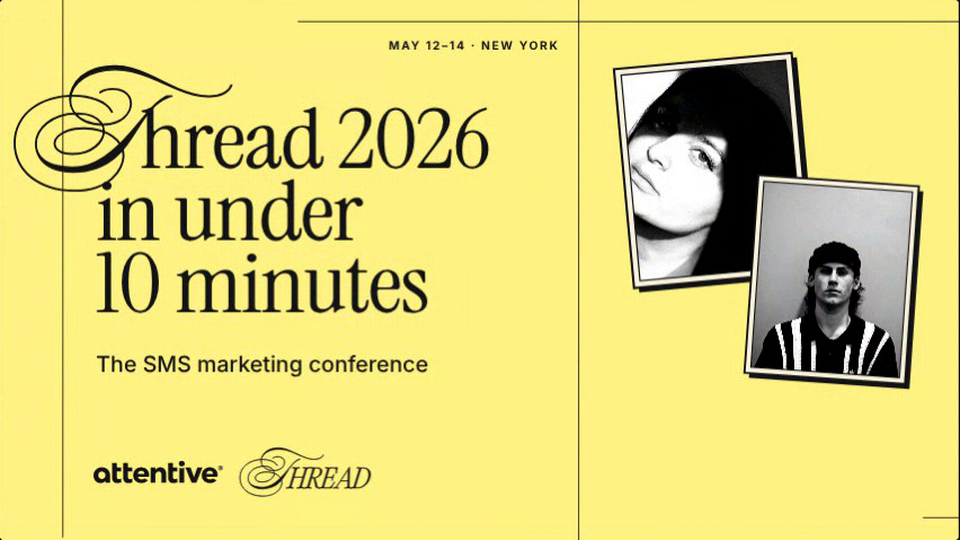
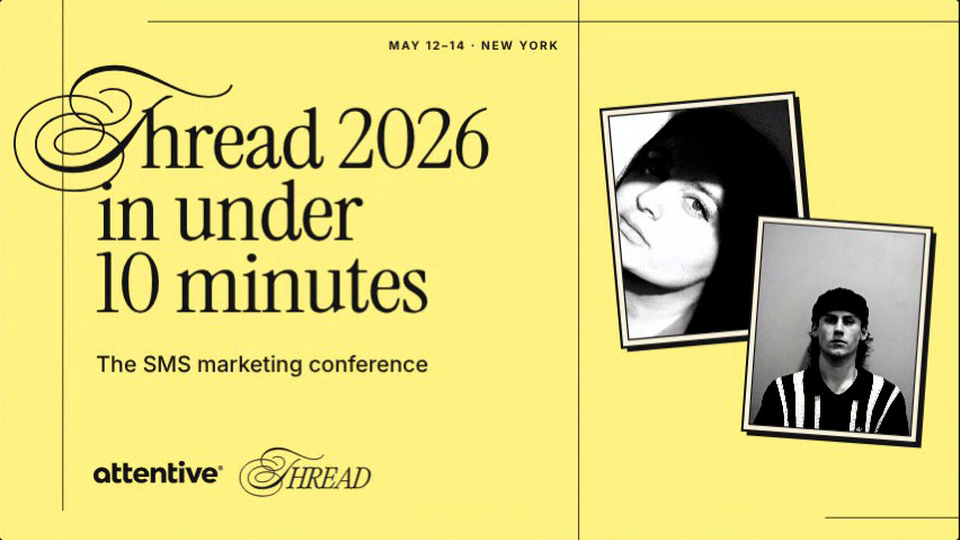
Conference Post Generator: speaker layout with session name leading, badges 1/3/5, alignment and spacing tweaks across templates
Claude-Session: https://claude.ai/code/session_01AHeBdzDs1sAKkVKYb3xsdt

diff --git a/conference-post-generator/index.html b/conference-post-generator/index.html
@@ -132,7 +132,7 @@ input[type=text]:focus,textarea:focus,select:focus{outline:2px solid var(--yello
       </div>
       <label class="f"><span>Badge name (one line, Title Case)</span><input type="text" id="badgeText"></label>
       <label class="chk" data-for="speaker"><input type="checkbox" id="showBadge"> Show the badge</label>
-      <div class="rng" data-for="badges"><span>Badges shown</span><input type="range" id="badgeCount" min="3" max="5" step="1"><output id="badgeCountO"></output></div>
+      <div class="rng" data-for="badges"><span>Badges shown</span><input type="range" id="badgeCount" min="1" max="5" step="2"><output id="badgeCountO"></output></div>
     </section>
 
     <section data-for="headline">
@@ -205,9 +205,9 @@ const SHAPE_RATIO = { arch: 0.76, circle: 1, scallop: 1, hexagon: 1.1, shield: 0
 
 const S = {
   tpl: 'headline', fmt: 'landscape', theme: 'yellow', seed: 7,
-  headline: 'Thread 2026\nin under\n10 minutes', sub: 'The SMS marketing conference', bHeadline: 'Tickets\non sale\nnow', bSub: 'Pick your pass for Thread 2026', date: 'May 12–14 · New York',
+  headline: 'Thread 2026\nin under\n10 minutes', sub: 'The SMS marketing conference', bHeadline: 'Tickets\non sale now', bSub: 'Pick your pass for Thread 2026', date: 'May 12–14 · New York',
   chip: 'Keynote', speaker: 'Maya Chen', role: 'VP of Growth, Brand Co.', talk: 'What texting taught us about talking to customers',
-  swashT: true, badgeShape: 'arch', badgeText: SHAPE_DEFAULTS.arch, showBadge: true, badgeCount: 4,
+  swashT: true, badgeShape: 'arch', badgeText: SHAPE_DEFAULTS.arch, showBadge: true, badgeCount: 3,
   panelMode: 'photos', barOn: true, callig: false, photoFilter: 'color', photoCount: 2, weight: 5, lines: true, anim: true,
 };
 
@@ -413,12 +413,12 @@ function photoCluster(ctx, c, r, n, t, stack) {
   if (stack) {  // wide, short bar: prints stand taller than the bar and poke out over its top edge
     const sw2 = (k) => 0.012 * Math.sin(TAU * t / PERIOD + k * 1.7);
     const spec = [[0.95, 0.38, 0.07], [0.68, 0.52, -0.05], [0.6, 0.62, 0.04]], items = []; let left = 0;  // lead print bleeds a sliver off the top and right, the rest step back left and overlap
-    for (let k = 0; k < n; k++) { const ph = r.h * spec[k][0], pw = ph * 0.8, cx = k ? left - pw / 2 + pw * 0.28 : r.x + r.w - pw / 2 + pw * 0.07; left = cx - pw / 2; items.push([n - 1 - k, cx, r.y + r.h * spec[k][1], pw, ph, spec[k][2]]); }
+    for (let k = 0; k < n; k++) { const ph = r.h * spec[k][0], pw = ph * 0.8, cx = k ? left - pw / 2 + pw * 0.28 : r.x + r.w * 0.87 - pw / 2; left = cx - pw / 2; items.push([n - 1 - k, cx, r.y + r.h * spec[k][1], pw, ph, spec[k][2]]); }
     items.reverse().forEach((q, i) => photoFrame(ctx, q[0], q[1], q[2], q[3], q[4], q[5] + sw2(i), c.th, c.fu * 10));
     return;
   }
   const sw = (k) => 0.012 * Math.sin(TAU * t / PERIOD + k * 1.7), base = Math.min(r.w * 0.8, r.h * 0.78);
-  const L = { 1: [[0.5, 0.5, 1.0, -0.06]], 2: [[0.34, 0.4, 0.82, -0.1], [0.68, 0.62, 0.74, 0.08]], 3: [[0.3, 0.34, 0.74, -0.09], [0.7, 0.4, 0.7, 0.07], [0.46, 0.76, 0.66, -0.03]] }[n];
+  const L = { 1: [[0.5, 0.5, 1.0, -0.06]], 2: [[0.34, 0.4, 0.82, -0.1], [0.68, 0.62, 0.74, 0.08]], 3: [[0.3, 0.3, 0.74, -0.09], [0.7, 0.36, 0.7, 0.07], [0.46, 0.72, 0.66, -0.03]] }[n];
   if (!L) return;
   L.forEach((p, k) => { const pw = base * p[2] * 0.72, ph = pw * 1.25; photoFrame(ctx, k, r.x + r.w * p[0], r.y + r.h * p[1], pw, ph, p[3] + sw(k), c.th, c.fu * 10); });
 }
@@ -479,7 +479,7 @@ function drawBadge(ctx, th, shape, cx, cy, h, rot, label, shadow) {
   let fs = fs0; ctx.font = serifFont(fs, false); setLS(ctx, 0);
   const maxW = w * (shape === 'shield' ? 0.58 : shape === 'circle' || shape === 'scallop' ? 0.66 : 0.78);
   lines.forEach((l) => { const mw = ctx.measureText(l).width; if (mw > maxW) fs = Math.min(fs, fs0 * maxW / mw); });
-  const gap = fs * 1.0, top = dv + (y + h - dv) * (shape === 'shield' ? 0.4 : 0.5) - ((lines.length - 1) * gap) / 2;
+  const gap = fs * 1.0, top = dv + (y + h - dv) * (shape === 'shield' ? 0.3 : 0.36) - ((lines.length - 1) * gap) / 2;
   lines.forEach((l, i) => serifText(ctx, l, 0, top + i * gap + fs * 0.34, fs, ink, { align: 'center' }));
   ctx.restore();
 }
@@ -512,10 +512,10 @@ function panelRect(c, pos) {
   if (c.land) return { x: W * 0.604, y: 45 * fu, w: W - W * 0.604, h: H - 92 * fu };
   return pos === 'top' ? { x: 0, y: 45 * fu, w: W, h: H * 0.46 } : { x: 0, y: H * 0.6, w: W, h: H - 215 * fu - H * 0.6 };
 }
-function drawPanel(ctx, c, r, seed, plain) {
+function drawPanel(ctx, c, r, seed, plain, side) {
   ctx.save(); ctx.fillStyle = c.th.accent; ctx.fillRect(r.x, r.y, r.w, r.h);
   ctx.beginPath(); ctx.rect(r.x, r.y, r.w, r.h); ctx.clip();
-  if (!plain) flourish(ctx, r.x, r.y, r.w, r.h, { color: DARK, t: c.t, still: c.still, fw: 1.2 * S.weight / 5 * c.fu, off: seed * 0.9 });
+  if (!plain) flourish(ctx, r.x, r.y, r.w, r.h, { color: DARK, t: c.t, still: c.still, fw: 1.2 * S.weight / 5 * c.fu, off: seed * 0.9, side });
   ctx.restore();
 }
 function subLines(ctx, c, x, y, text) {
@@ -524,8 +524,8 @@ function subLines(ctx, c, x, y, text) {
   return yy;
 }
 function footerDate(ctx, c, rightX) {
-  // 16:9: the footer row is cramped beside the logos, so the date goes at the top of the text column; stacked formats keep it bottom right
-  if (S.date) sansText(ctx, dateTxt(), c.land ? rightX + 20 * c.fu : rightX, c.land ? 45 * c.fu + 58 * c.fu : c.H - 142 * c.fu + 9 * c.fu, 24 * c.fu, c.th.fg, { wt: 700, ls: 4 * c.fu, align: 'right' });
+  // the date sits at the top right of the text column (16:9) or of the post (stacked formats)
+  if (S.date) sansText(ctx, dateTxt(), c.land ? rightX + 20 * c.fu : c.W * 0.945, 45 * c.fu + 58 * c.fu, 24 * c.fu, c.th.fg, { wt: 700, ls: 4 * c.fu, align: 'right' });
 }
 const dateTxt = () => (S.date || '').toUpperCase();
 const sway = (t, ph) => Math.sin(TAU * t / PERIOD + ph);
@@ -540,7 +540,7 @@ function headlineBlock(ctx, c, box, o) {
   let fs = o.maxFs;
   for (; fs > 24; fs *= 0.97) {
     const mx = Math.max(mxMin, extra * fs + 0.015 * W), right = Math.max(...w100.map((w, i) => (i === 0 && sw ? 0.53 : 0) + w)) * fs + mx;
-    if (right <= box.x + box.w && stackAt(fs) <= box.h) break;
+    if (right <= box.x + box.w && stackAt(fs) <= box.h && (!o.lockMx || extra * fs + 0.015 * W <= mxMin + 0.5)) break;
   }
   const LH = 0.88, mx = Math.max(mxMin, extra * fs + 0.015 * W), top = box.y + (box.h - stackAt(fs)) / 2 + (sw ? 0.54 * fs : 0), b1 = top + 0.7 * fs, fl = (i) => 2 * fu * sway(t, i * 0.8 + 0);
   if (sw) drawSwash(ctx, mx + 0.53 * fs - 1.52 * fs, b1 - 1.24 * fs + fl(0), fs * 0.285 / 172, th.fg, 0.012 * sway(t, 0));
@@ -559,71 +559,71 @@ function tHeadline(ctx, c) {
   }
   const n = S.photoCount;
   if (S.panelMode === 'badges') barBadges(ctx, c, pr, t);
-  else if (n) photoCluster(ctx, c, land ? { x: pr.x + pr.w * 0.04, y: pr.y - pr.h * 0.1, w: pr.w * 0.92, h: pr.h } : pr, n, t, !land);
+  else if (n) photoCluster(ctx, c, pr, n, t, !land);
   frameLines(ctx, c, land ? pr.x : null);
   if (!land && S.lines && S.barOn) { ctx.save(); ctx.strokeStyle = th.fg; ctx.lineWidth = Math.max(1.5, 2 * fu); ctx.beginPath(); ctx.moveTo(0, pr.y); ctx.lineTo(W, pr.y); ctx.stroke(); ctx.restore(); }
   const box = land ? { x: 0, y: 100 * fu, w: pr.x - 60 * fu, h: H - 350 * fu } : { x: 0, y: 110 * fu, w: W - 0.06 * W, h: pr.y - 300 * fu };
-  const hb = headlineBlock(ctx, c, box, { maxFs: 172 * fu * (land ? 1 : 2) });
+  const hb = headlineBlock(ctx, c, box, land ? { maxFs: 172 * fu } : { maxFs: 172 * fu * 2, mx: 0.154 * W, lockMx: true });  // stacked: text starts on the 15.4% line
   subLines(ctx, c, hb.mx, hb.bottom + 88 * fu);
-  footer(ctx, c); footerDate(ctx, c, land ? pr.x - 60 * fu : W - 0.0985 * W);
+  footer(ctx, c); footerDate(ctx, c, pr.x - 60 * fu);
 }
 
+function wrapSlide(ctx, str, fs, maxW) {
+  const out = []; let cur = '';
+  for (const w of str.trim().split(/\s+/)) { const tt = cur ? cur + ' ' + w : w; if (cur && measureSlide(ctx, tt, fs, false) > maxW) { out.push(cur); cur = w; } else cur = tt; }
+  if (cur) out.push(cur); return out;
+}
 function tSpeaker(ctx, c) {
   const { W, H, fu, th, t, land } = c, pr = panelRect(c, 'top');
-  drawPanel(ctx, c, pr, S.seed + 3);
-  const ph = pr.h * (land ? 0.56 : 0.74), pw = ph * 0.8;  // smaller on 16:9 (LinkedIn) so the print sits well inside the panel
-  photoFrame(ctx, 0, pr.x + pr.w / 2, pr.y + pr.h / 2 + 4 * sway(t, 0.4), pw, ph, -0.05 + 0.012 * sway(t, 0.2), th, 12 * fu);
-  if (S.showBadge) { const bh = land ? H * 0.3 : pr.h * 0.44, bw = bh * SHAPE_RATIO[S.badgeShape]; drawBadge(ctx, th, S.badgeShape, Math.min(pr.x + pr.w / 2 + pw * 0.62, W - bw / 2 - 36 * fu), pr.y + pr.h * (land ? 0.8 : 0.86) + 5 * sway(t, 1.2), bh, 0.1 + 0.015 * sway(t, 0.9), S.badgeText, 10 * fu); }
+  drawPanel(ctx, c, pr, S.seed + 3, false, 'R');  // loops on the right side only
+  const ph = pr.h * (land ? 0.56 : 0.74), pw = ph * 0.8, dx = land ? 0 : -0.045 * W, dy = land ? 0 : 0.07 * pr.h;  // stacked: print and badge sit lower and a little left
+  photoFrame(ctx, 0, pr.x + pr.w / 2 + dx, pr.y + pr.h / 2 + dy + 4 * sway(t, 0.4), pw, ph, -0.05 + 0.012 * sway(t, 0.2), th, 12 * fu);
+  if (S.showBadge) { const bh = land ? H * 0.3 : pr.h * 0.44, bw = bh * SHAPE_RATIO[S.badgeShape]; drawBadge(ctx, th, S.badgeShape, Math.min(pr.x + pr.w / 2 + pw * 0.62 + dx, W - bw / 2 - 36 * fu), pr.y + pr.h * (land ? 0.8 : 0.86) + dy + 5 * sway(t, 1.2), bh, 0.1 + 0.015 * sway(t, 0.9), S.badgeText, 10 * fu); }
   frameLines(ctx, c, land ? pr.x : null);
-  const mx = 0.0985 * W, rightB = land ? pr.x - 60 * fu : W - mx, topY = land ? 100 * fu : pr.y + pr.h + 60 * fu, botY = H - 250 * fu;
-  // tag = the outlined REGISTER NOW button from the site: sharp corners, hairline stroke, tracked bold capitals
-  const tagFs = 22 * fu, tagSp = 4 * fu, tagH = 58 * fu, tagPad = 30 * fu, tagFont = 'bold ' + tagFs + 'px Helvetica, Arial, sans-serif';
+  const mx = 0.0985 * W, rightB = land ? pr.x - 60 * fu : W - mx, k = land ? 1 : 1.5;
+  // tag = the outlined REGISTER NOW button: sharp corners, hairline stroke, tracked bold capitals (bigger on stacked formats)
+  const tagFs = 22 * fu * k, tagSp = 4 * fu * k, tagH = 58 * fu * k, tagPad = 30 * fu * k, tagFont = 'bold ' + tagFs + 'px Helvetica, Arial, sans-serif';
   ctx.save(); ctx.font = tagFont; setLS(ctx, tagSp);
   const tag = (S.chip || '').toUpperCase(), tw = ctx.measureText(tag).width - tagSp + 2 * tagPad; ctx.restore();
-  const nameLines = [S.speaker.trim() || ' '];  // the name always sits on one line
-  const w100 = nameLines.map((s) => measureSlide(ctx, s, 100, false) / 100);
-  ctx.save(); ctx.font = serifFont(60 * fu, true);
-  const talk = (S.talk ? wrapText(ctx, S.talk, rightB - mx) : []).slice(0, 3); ctx.restore();
-  const extraH = (S.chip ? 100 * fu : 0) + (S.role ? 150 * fu : 0) + talk.length * 62 * fu + 40 * fu;
-  let fs = 300 * fu * (land ? 0.8 : 1);
-  for (; fs > 30; fs *= 0.97) { if (Math.max(...w100) * fs + mx <= rightB && (nameLines.length - 1) * fs + 0.7 * fs + extraH <= botY - topY) break; }
-  const stack = (nameLines.length - 1) * fs + 0.7 * fs + extraH;
-  let y = topY + Math.max(0, (botY - topY - stack) / 2);
+  const title = (S.talk || S.speaker || ' ').trim(), nameFs = 64 * fu * (land ? 1 : 1.15), roleFs = 36 * fu * (land ? 1 : 1.15);
+  const topY = land ? 100 * fu : pr.y + pr.h * 1.18, botY = land ? H - 250 * fu : H - 240 * fu;  // the group sits just above the logos on stacked formats
+  const groupH = (fs, n) => (S.chip ? tagH + 44 * fu * k : 0) + 0.72 * fs + (n - 1) * 0.92 * fs + 0.28 * fs + 48 * fu + (S.speaker ? nameFs : 0) + (S.role ? 30 * fu + roleFs : 0);
+  let fs = (land ? 150 : 190) * fu, lines = wrapSlide(ctx, title, fs, rightB - mx);
+  for (; fs > 30; fs *= 0.97) { lines = wrapSlide(ctx, title, fs, rightB - mx); if (lines.length <= 3 && groupH(fs, lines.length) <= botY - topY) break; }
+  const G = groupH(fs, lines.length);
+  let y = land ? topY + Math.max(0, (botY - topY - G) / 2) : botY - G;
   if (S.chip) {
     ctx.save(); ctx.strokeStyle = th.fg; ctx.lineWidth = Math.max(1.5, 2 * fu); ctx.lineJoin = 'miter'; ctx.strokeRect(mx + 1, y + 1, tw - 2, tagH - 2);
-    ctx.fillStyle = th.fg; ctx.font = tagFont; ctx.textAlign = 'left'; ctx.textBaseline = 'alphabetic'; setLS(ctx, tagSp); ctx.fillText(tag, mx + tagPad, y + tagH / 2 + tagFs * 0.375); ctx.restore();
-    if (S.date) { ctx.save(); ctx.fillStyle = th.fg; ctx.font = tagFont; ctx.textAlign = 'left'; ctx.textBaseline = 'alphabetic'; setLS(ctx, tagSp); ctx.fillText(dateTxt(), mx + tw + 30 * fu, y + tagH / 2 + tagFs * 0.375); ctx.restore(); }  // same type as the tag
-    y += 100 * fu;
+    ctx.fillStyle = th.fg; ctx.font = tagFont; ctx.textAlign = 'left'; ctx.textBaseline = 'alphabetic'; setLS(ctx, tagSp); ctx.fillText(tag, mx + tagPad, y + tagH / 2 + tagFs * 0.375);
+    if (S.date) ctx.fillText(dateTxt(), mx + tw + 30 * fu * k, y + tagH / 2 + tagFs * 0.375);  // same type as the tag
+    ctx.restore(); y += tagH + 44 * fu * k;
   }
-  y += 0.7 * fs;
-  nameLines.forEach((s, i) => slide(ctx, s, mx, y + i * fs + 2 * fu * sway(t, i * 0.8), fs, false, th.fg));
-  y += (nameLines.length - 1) * fs + 62 * fu;
-  if (S.role) { y += 40 * fu; sansText(ctx, S.role, mx, y, 38 * fu, th.fg, { wt: 600 }); y += 78 * fu; }
-  talk.forEach((l, i) => serifText(ctx, l, mx, y + 54 * fu + i * 62 * fu, 60 * fu, th.fg, { it: true }));
-  y += talk.length * 62 * fu + 40 * fu;
+  y += 0.72 * fs;
+  lines.forEach((l, i) => slide(ctx, l, mx, y + i * 0.92 * fs + 2 * fu * sway(t, i * 0.8), fs, false, th.fg));
+  y += (lines.length - 1) * 0.92 * fs + 0.28 * fs + 48 * fu;
+  if (S.speaker) { y += nameFs * 0.8; serifText(ctx, S.speaker, mx, y, nameFs, th.fg); y += nameFs * 0.2; }
+  if (S.role) { y += 30 * fu + roleFs * 0.8; sansText(ctx, S.role, mx, y, roleFs, th.fg, { wt: 600 }); }
   footer(ctx, c);
 }
 
 function tBadges(ctx, c) {
   const { W, H, fu, th, t, land } = c, pr = panelRect(c, 'bottom');
   frameLines(ctx, c, land ? pr.x : null);
-  const box = land ? { x: 0, y: 100 * fu, w: pr.x - 60 * fu, h: H - 350 * fu } : { x: 0, y: 110 * fu, w: W - 0.06 * W, h: pr.y - 150 * fu };
+  const box = land ? { x: 0, y: 100 * fu, w: pr.x - 60 * fu, h: H - 350 * fu } : { x: 0, y: 60 * fu, w: W - 0.06 * W, h: H * 0.37 };
   const hb = headlineBlock(ctx, c, box, { maxFs: 172 * fu * (land ? 1 : 2), text: S.bHeadline, sub: S.bSub });
   subLines(ctx, c, hb.mx, hb.bottom + 88 * fu, S.bSub);
-  footer(ctx, c); footerDate(ctx, c, land ? pr.x - 60 * fu : W - 0.0985 * W);
+  footer(ctx, c); footerDate(ctx, c, pr.x - 60 * fu);
   // the badge cluster, pushed to the right; the chosen shape leads and one badge bleeds slightly off the right edge
-  const n = cl(S.badgeCount, 3, 5), order = ['arch', 'circle', 'scallop', 'hexagon', 'shield'].filter((x) => x !== S.badgeShape);
+  const n = S.badgeCount <= 1 ? 1 : S.badgeCount >= 5 ? 5 : 3, order = ['arch', 'circle', 'scallop', 'hexagon', 'shield'].filter((x) => x !== S.badgeShape);
   let L, base, X, Y;
   if (land) {
     base = Math.min(pr.h, pr.w * 1.05);
-    L = { 3: [[0.56, 0.4, 0.66, 0.02], [0.3, 0.8, 0.38, -0.1], [0.97, 0.7, 0.42, 0.09]],
-      4: [[0.54, 0.36, 0.6, 0.02], [0.98, 0.2, 0.34, 0.1], [0.24, 0.78, 0.38, -0.1], [0.74, 0.8, 0.4, 0.07]],
+    L = { 1: [[0.56, 0.5, 0.82, 0.03]], 3: [[0.56, 0.4, 0.66, 0.02], [0.3, 0.8, 0.38, -0.1], [0.97, 0.7, 0.42, 0.09]],
       5: [[0.5, 0.34, 0.52, 0.02], [0.98, 0.18, 0.32, 0.1], [0.2, 0.74, 0.34, -0.1], [0.54, 0.82, 0.3, 0.05], [0.93, 0.62, 0.3, -0.08]] }[n];
     X = (fx) => pr.x + pr.w * fx; Y = (fy) => pr.y + pr.h * fy;
   } else {
-    const ar = { y: H * 0.5, h: H - 215 * fu - H * 0.5 }; base = ar.h;
-    L = { 3: [[0.68, 0.52, 0.8, 0.02], [0.4, 0.8, 0.46, -0.1], [0.97, 0.2, 0.5, 0.1]],
-      4: [[0.66, 0.5, 0.74, 0.02], [0.38, 0.82, 0.44, -0.1], [0.97, 0.2, 0.5, 0.1], [0.93, 0.84, 0.4, 0.07]],
+    const ar = { y: H * 0.42, h: H - 215 * fu - H * 0.5 }; base = ar.h;  // moved up so nothing sits on the logos
+    L = { 1: [[0.66, 0.5, 1.0, 0.02]], 3: [[0.68, 0.52, 0.8, 0.02], [0.4, 0.8, 0.46, -0.1], [0.97, 0.2, 0.5, 0.1]],
       5: [[0.64, 0.46, 0.66, 0.02], [0.36, 0.8, 0.42, -0.1], [0.97, 0.18, 0.46, 0.1], [0.9, 0.82, 0.4, 0.06], [0.4, 0.2, 0.34, 0.08]] }[n];
     X = (fx) => W * fx; Y = (fy) => ar.y + ar.h * fy;
   }
@@ -638,12 +638,12 @@ function tPattern(ctx, c) {
   flourish(ctx, 0, 45 * fu, W, H - 92 * fu, { color: th.fg, t, still: c.still, fw: 1.2 * S.weight / 5 * fu, off: S.seed * 0.9 });
   // plate in the middle: sharp corners, the same hairline weight as the frame
   const pw = W * (land ? 0.4 : 0.66), k = pw * 0.76 / 2485, logoH = 918 * k, pad = pw * 0.12;
-  const lines = [S.sub, dateTxt()].filter(Boolean), ph = pad * 2 + logoH + lines.length * 60 * fu + (lines.length ? 26 * fu : 0);
+  const lines = [S.sub, dateTxt()].filter(Boolean), ph = pad * 2 + logoH + lines.length * 60 * fu + (lines.length ? 26 * fu : 0) + (lines.length > 1 ? 30 * fu : 0);
   const px = W / 2 - pw / 2, py = H / 2 - ph / 2 + 5 * sway(t, 0.7);
   ctx.save(); ctx.fillStyle = th.bg; ctx.strokeStyle = th.fg; ctx.lineWidth = Math.max(1.5, 2 * fu); ctx.lineJoin = 'miter';
   ctx.fillRect(px, py, pw, ph); ctx.strokeRect(px, py, pw, ph); ctx.restore();
   drawThreadLogo(ctx, W / 2 - 2485 * k / 2, py + pad, k, th.fg);
-  lines.forEach((l, i) => sansText(ctx, l, W / 2, py + pad + logoH + 46 * fu + i * 60 * fu, 42 * fu, th.fg, { wt: i ? 700 : 500, align: 'center', ls: i ? 3 * fu : 0 }));
+  lines.forEach((l, i) => sansText(ctx, l, W / 2, py + pad + logoH + 46 * fu + i * 90 * fu, 42 * fu, th.fg, { wt: i ? 700 : 500, align: 'center', ls: i ? 3 * fu : 0 }));
   frameLines(ctx, c, W - 131 * fu);
 }
 
